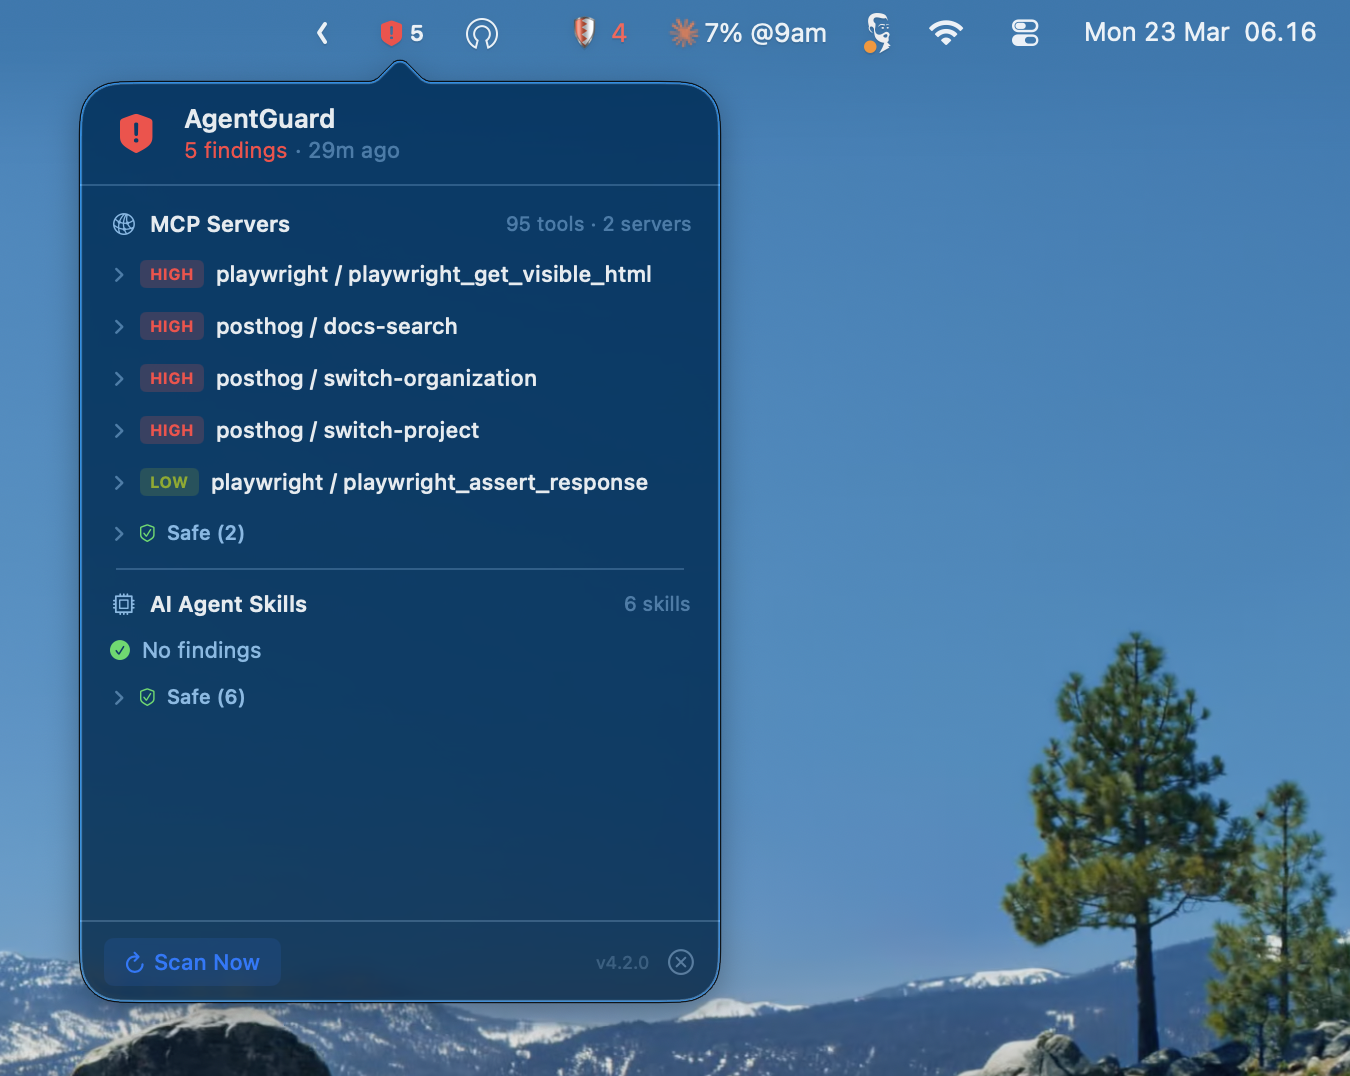
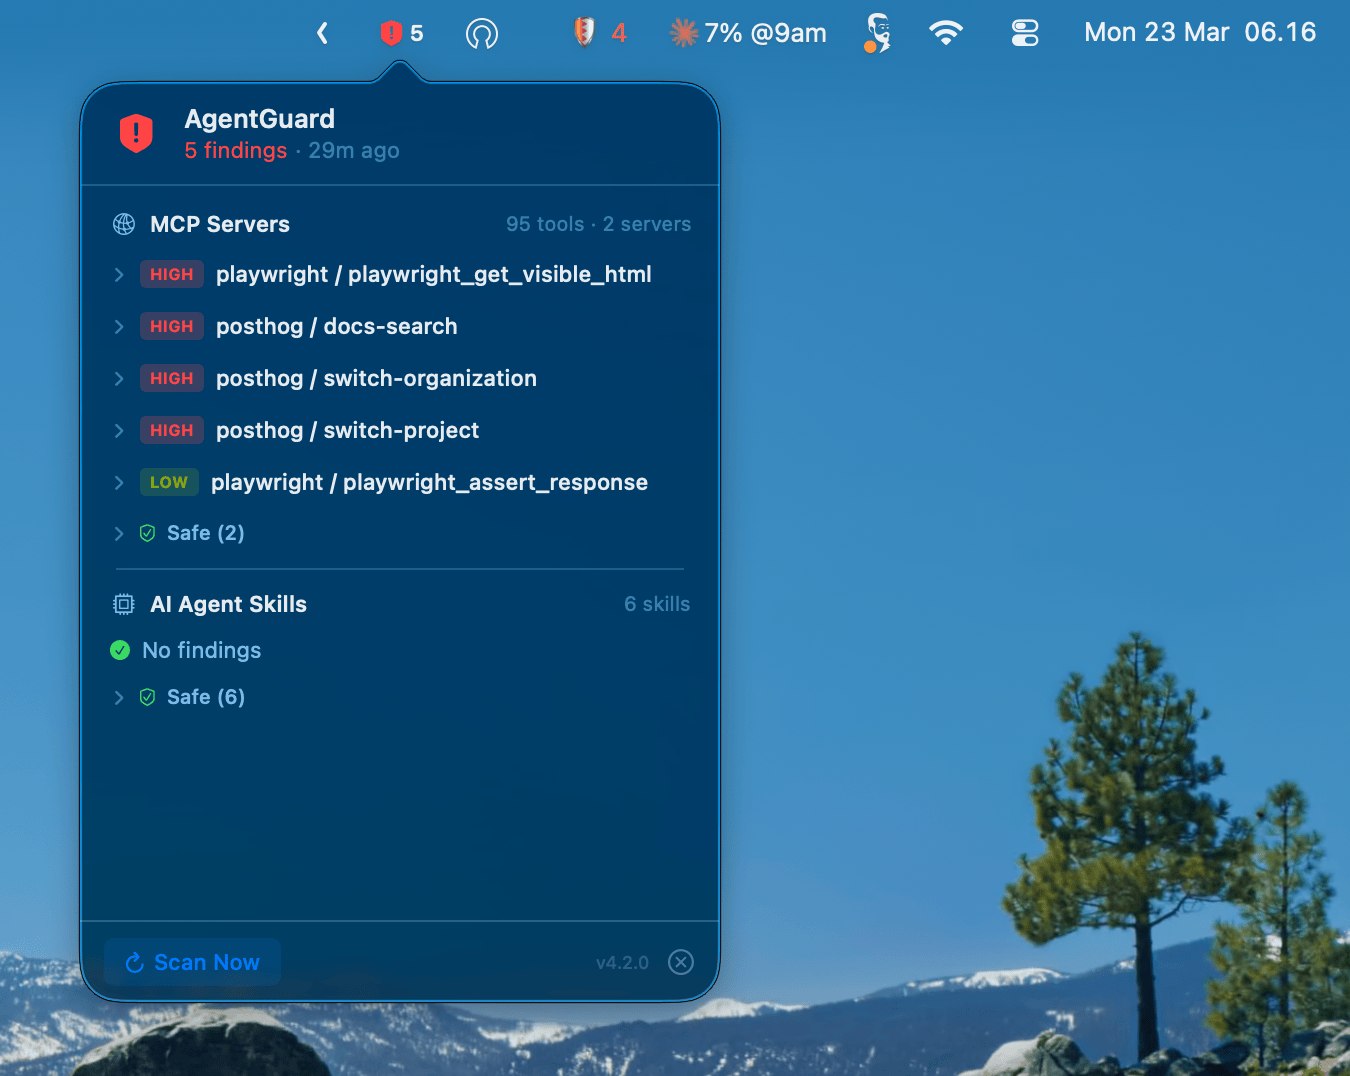
docs: update screenshots with popover + settings, compress images
- Replace single screenshot with two: popover view and settings window
- Compress PNGs with pngquant (3.3MB → 851KB, 75% reduction)
- Side-by-side layout in README

diff --git a/README.md b/README.md
@@ -5,7 +5,8 @@ Native macOS menu bar app that monitors your AI development environment for secu
 ![macOS 13+](https://img.shields.io/badge/macOS-13%2B-black?style=flat-square) ![Swift](https://img.shields.io/badge/Swift-5.9-orange?style=flat-square) ![License](https://img.shields.io/badge/license-MIT-blue?style=flat-square)
 
 <p align="center">
-  <img src="screenshot.png" width="500" alt="AgentGuard screenshot" />
+  <img src="screenshot.png" width="420" alt="AgentGuard popover" />
+  <img src="screenshot-config.png" width="420" alt="AgentGuard with settings" />
 </p>
 
 ## What it does
